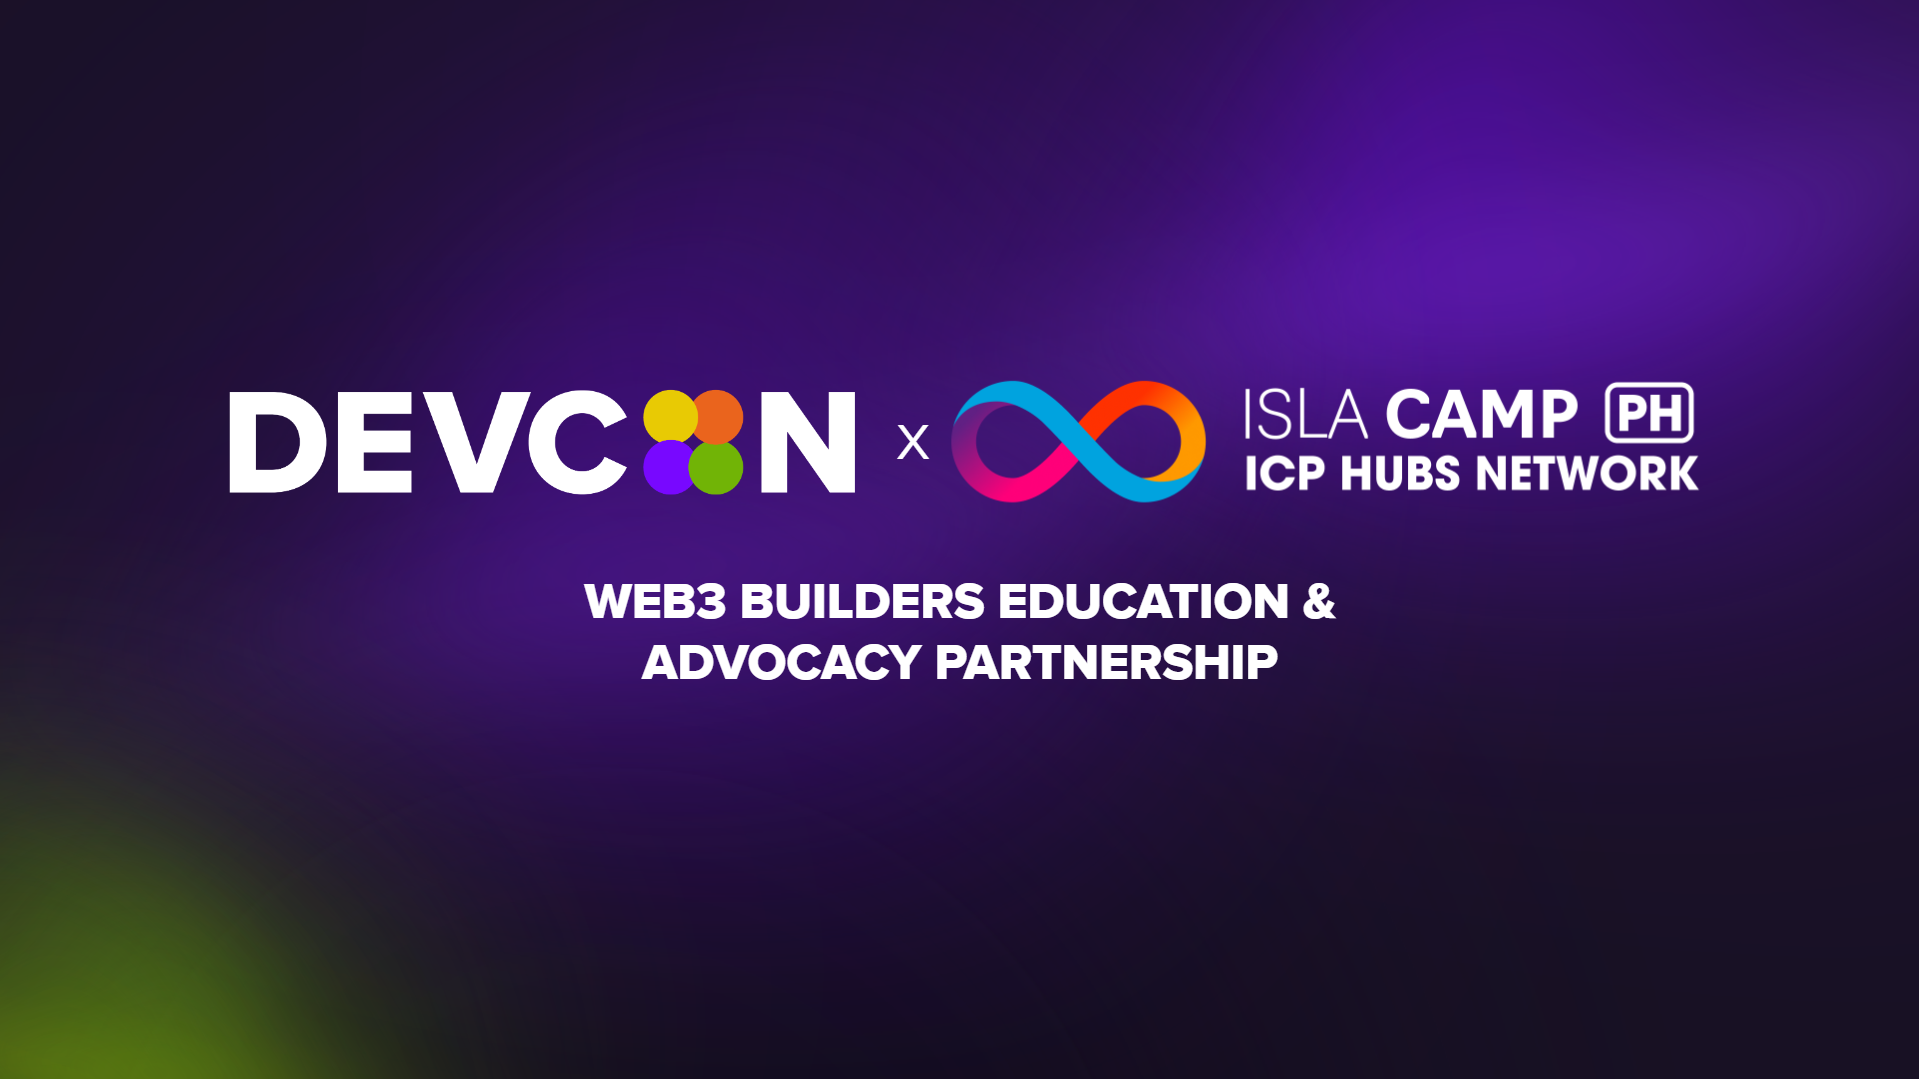
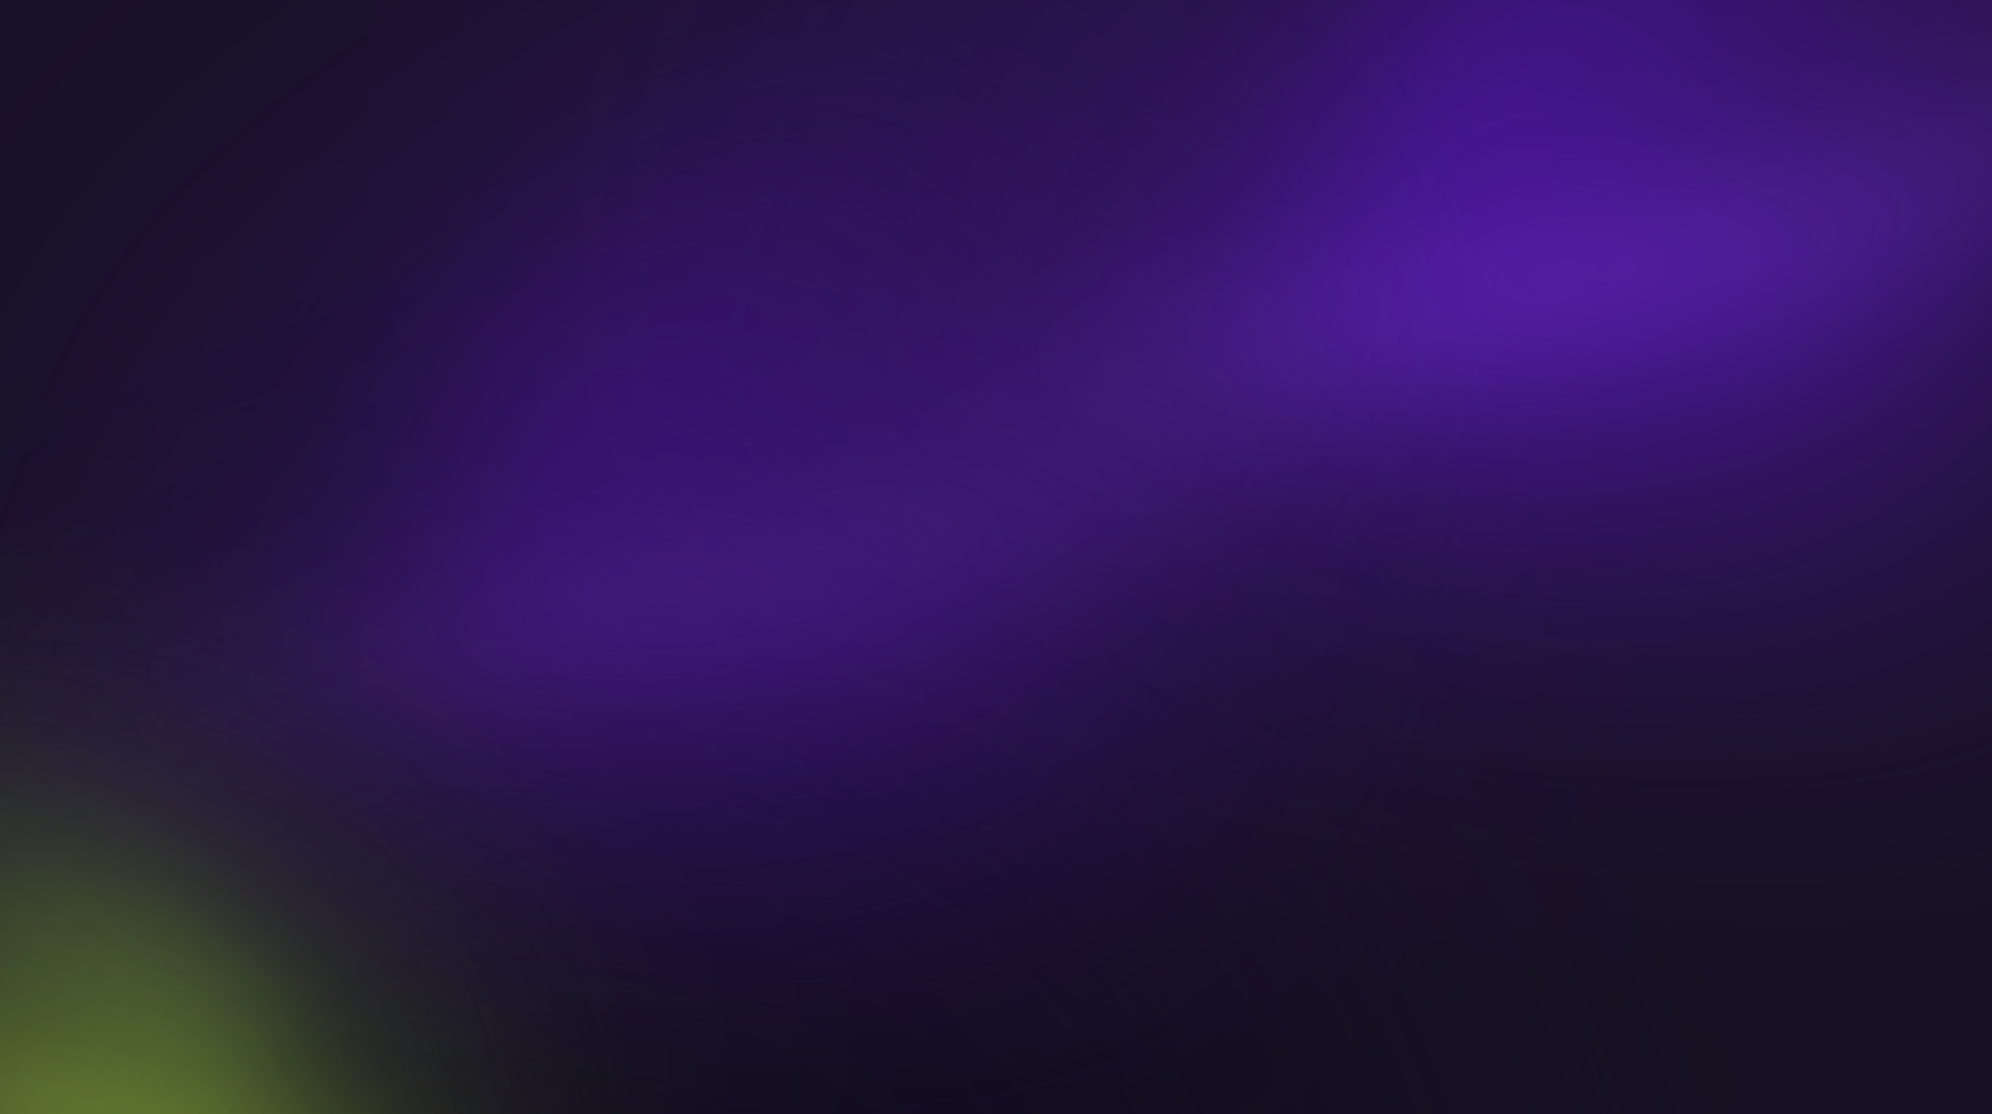
changed the background

Changed region(s): [[0.0922, 0.3364, 0.8916, 0.4893], [0.3075, 0.5199, 0.7071, 0.6423], [0.0, 0.9175, 0.123, 1.0]]

diff --git a/src/portfolio_template_frontend/src/index.html b/src/portfolio_template_frontend/src/index.html
@@ -10,26 +10,15 @@
         body {
             margin: 0;
             font-family: Arial, sans-serif;
-            background: linear-gradient(to bottom, navy, black, #00008b);
+            background-image: url('images/devcon_background.png');
+            background-repeat: no-repeat;
+            background-position: center;
+            background-size: cover;
             color: white;
             position: relative;
             overflow: hidden;
         }
 
-        body::after {
-            content: "";
-            position: absolute;
-            top: 0;
-            left: 0;
-            width: 100%;
-            height: 100%;
-            background-image: url('images/devcon_background.png');
-            background-repeat: no-repeat;
-            background-position: center;
-            background-size: cover;
-            opacity: 0.25;
-            z-index: -1;
-        }
 
         .container {
             display: flex;
